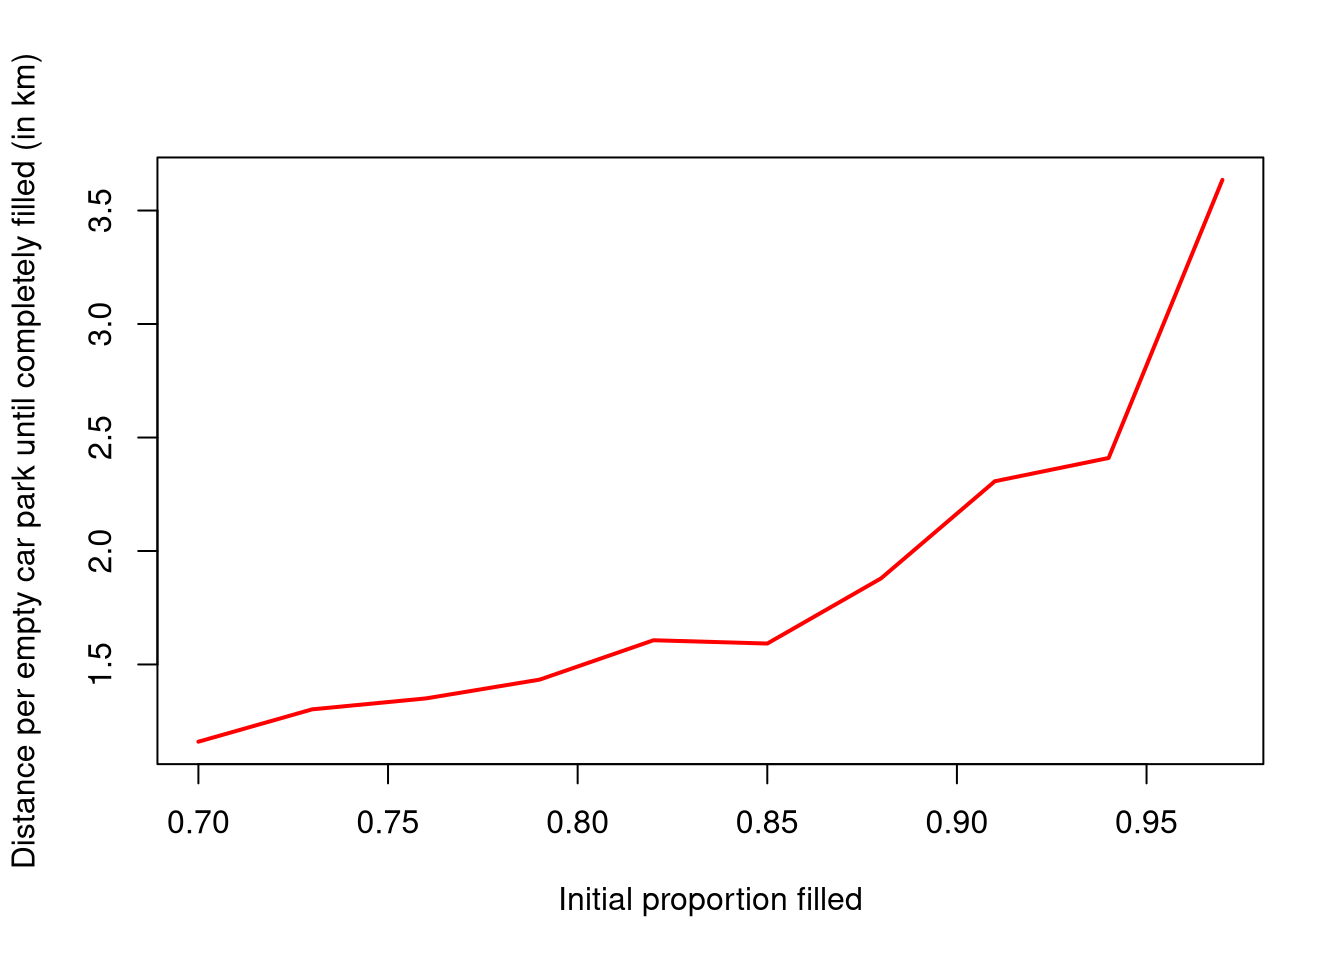
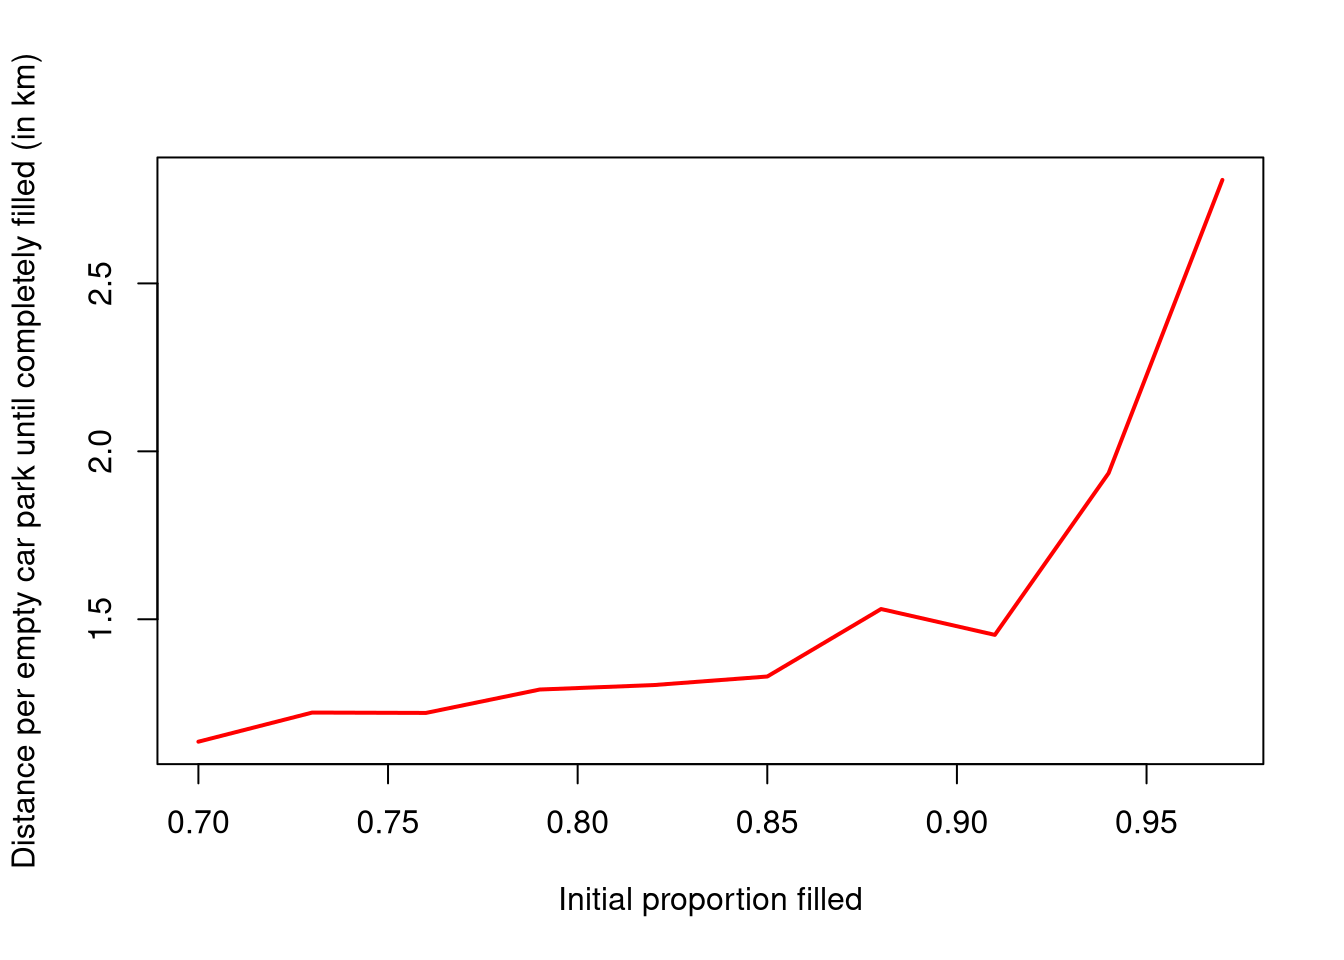
transfer spaceout -> mpadge; and mv readme for tangled render

diff --git a/README.md b/README.md
@@ -33,13 +33,13 @@ osmdat <- sb_osmdata_extract (bbox, hw_names)
 The analyses described in more detail below produce the following
 summary statistics:
 
--   Hansaviertel covers 23 Hectares
--   7.4% is public open space
--   15.7% is occupied by roads, of which:
-    -   39.7% is used for parking cars, and
-    -   27.7% is available for general public usage
--   There are only enough car parking spaces for 8.6% of all residents,
-    who thereby occupy 39.7% of the total open street space.
+- Hansaviertel covers 23 Hectares
+- 7.4% is public open space
+- 15.7% is occupied by roads, of which:
+  - 39.7% is used for parking cars, and
+  - 27.7% is available for general public usage
+- There are only enough car parking spaces for 8.6% of all residents,
+  who thereby occupy 39.7% of the total open street space.
 
 There are [several](https://www.openstreetmap.org/node/11782383432)
 large [public](https://www.openstreetmap.org/way/110526495) parking
@@ -58,10 +58,11 @@ driving a total distance of around 186 km every evening to fill these
 spaces. Were they to park in the nearby parking facilities, this total
 distance would reduce to only 49 km.
 
-**By this measure, use of nearby public parking facilities would be 74% more
-efficient than this 39.7% of available street space being otherwise used by
-only 8.6% of all residents. Using nearby public parking facilities would also
-increase space available for general public usage within Hansaviertel by 97%.**
+**By this measure, use of nearby public parking facilities would be 74%
+more efficient than this 39.7% of available street space being otherwise
+used by only 8.6% of all residents. Using nearby public parking
+facilities would also increase space available for general public usage
+within Hansaviertel by 97%.**
 
 Most of these results can easily be generated by calling the
 `sb_summary()` function:
@@ -108,7 +109,7 @@ The results are compared to equivalent times to drive to the nearest
 large parking facility (“garage” in the graph below), to park a car, and
 then walk back to the place of residence.
 
-<img src="man/figures/README-parking-times-plot-1.png" width="672" />
+<img src="man/figures/README-parking-times-plot-1.png" alt="" width="672" />
 
 ``` r
 times <- sb_parking_times (osmdat)
@@ -149,7 +150,7 @@ plot (d$prop_full, d$d,
 )
 ```
 
-<img src="man/figures/README-parking-per-km-plot-1.png" width="672" />
+<img src="man/figures/README-parking-per-km-plot-1.png" alt="" width="672" />
 
 Because filling the final few spaces takes so long, as shown in the
 first graph above, and people have to drive so far to fill them, the
